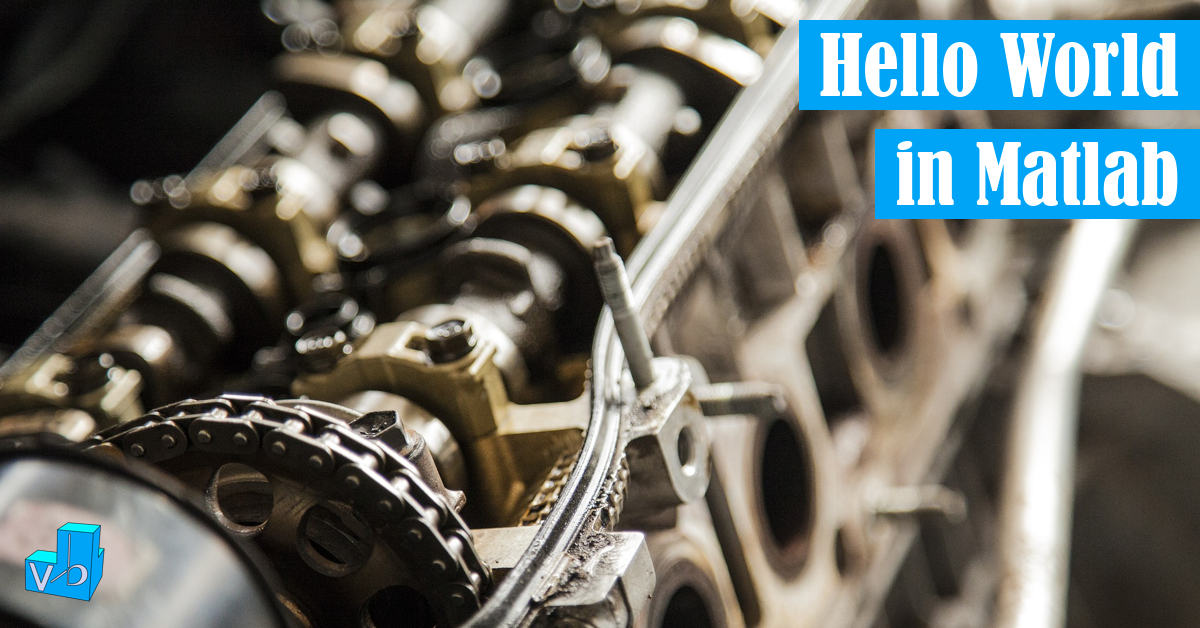
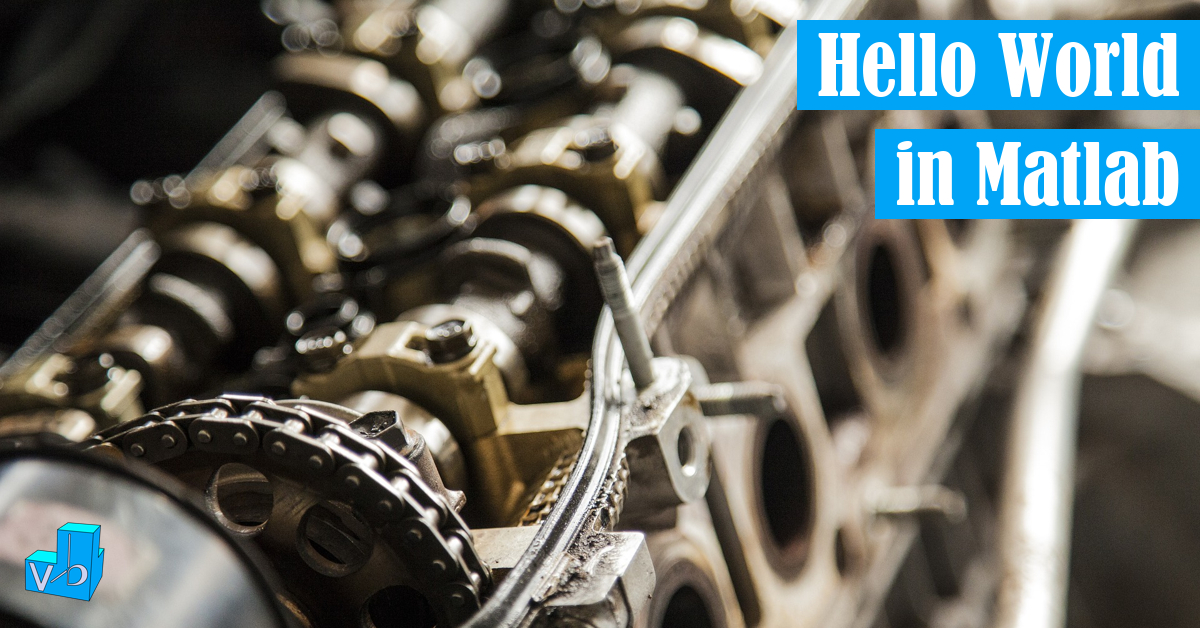
Fixed bug with latest version of pillow

Changed region(s): [[0.6783, 0.0605, 0.925, 0.1513], [0.8633, 0.242, 0.9867, 0.3328], [0.9558, 0.0605, 0.9867, 0.1513]]

diff --git a/imagetitler/draw.py b/imagetitler/draw.py
@@ -237,7 +237,7 @@ def _get_appropriate_font_size(**kwargs) -> ImageFont:
     font = font if font else DEFAULT_FONT
     title = kwargs.get(KEY_TITLE)
     font_size = 12
-    while ImageFont.truetype(font, font_size).getsize(title)[1] < bar_height - 10:
+    while ImageFont.truetype(font, font_size).getbbox(title)[3] < bar_height - 10:
         font_size += 1
     return ImageFont.truetype(font, font_size)
 
